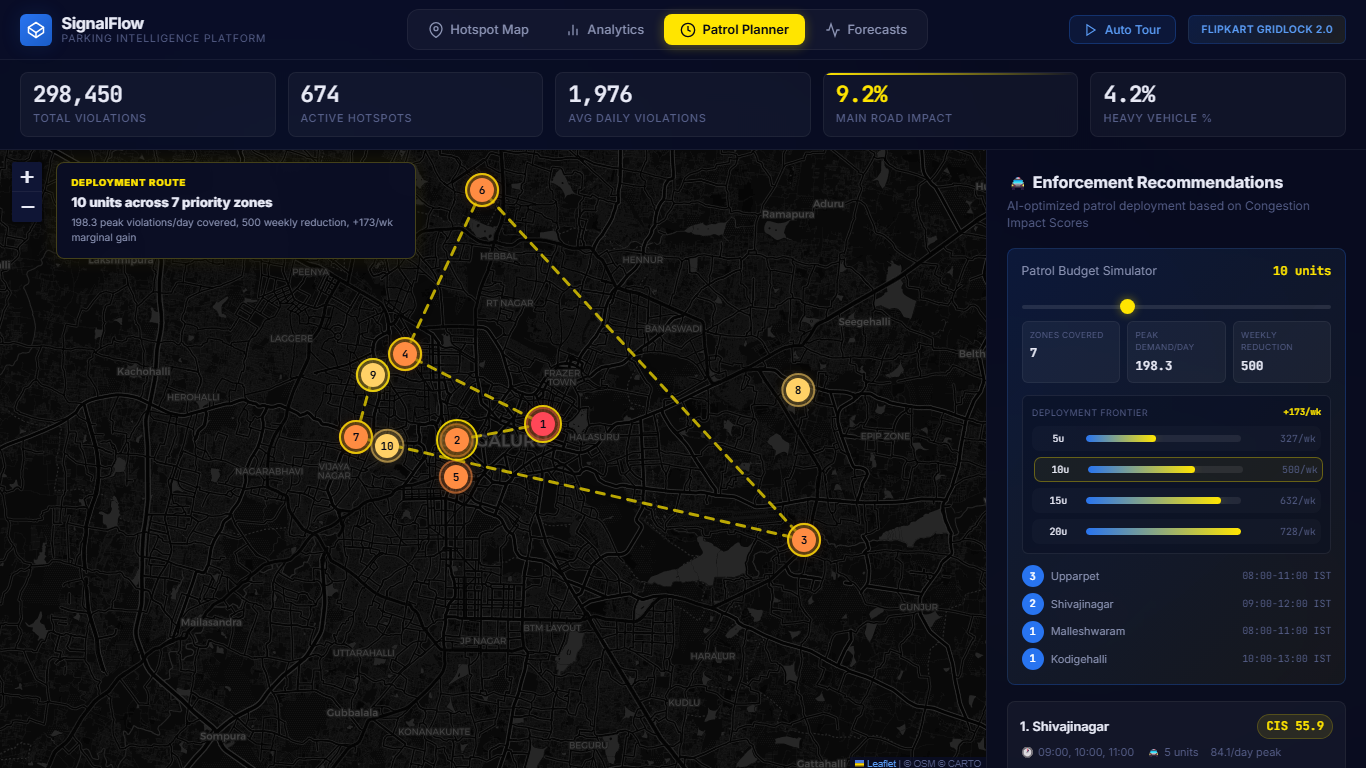
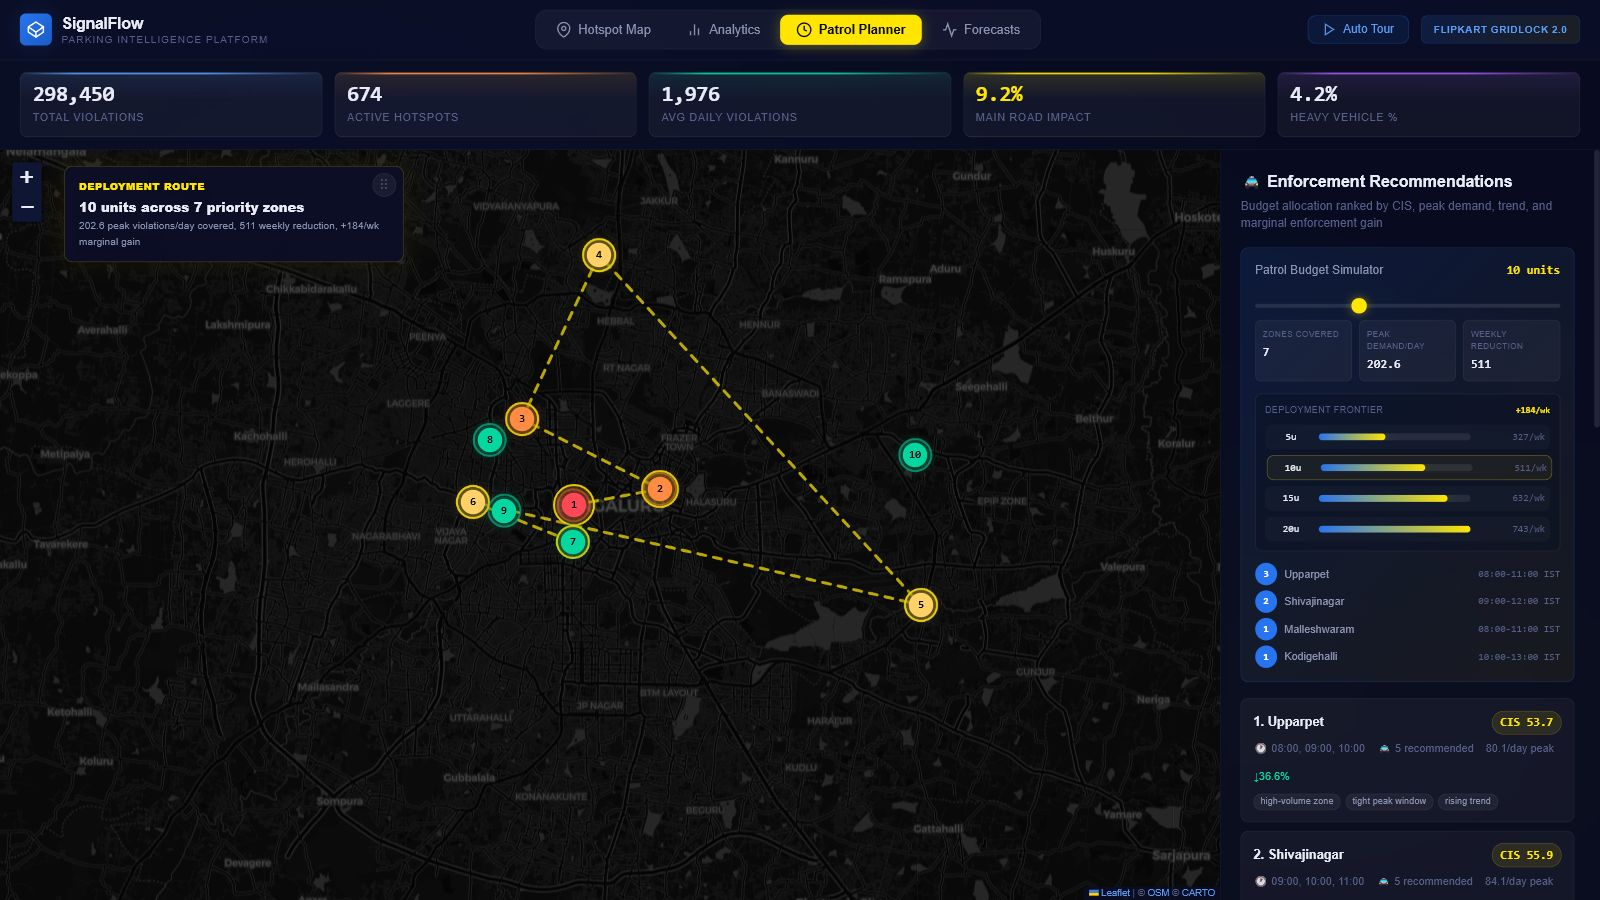
fix: align patrol priority and zone interactions

diff --git a/dashboard/app.js b/dashboard/app.js
@@ -14,6 +14,7 @@ let clusterMarkers = [];
 let patrolMarkers = [];
 let patrolRouteLayer = null;
 let patrolStationLookup = new Map();
+let patrolZoneLookup = new Map();
 let hourlyAnimData = {};
 let isPlaying = false;
 let playInterval = null;
@@ -1524,7 +1525,11 @@ function renderAnalytics(temporal) {
 function initPatrolView(enforcement, opsBrief) {
     if (!enforcement || enforcement.length === 0) return;
     const playbookMap = new Map((opsBrief?.station_playbooks || []).map(p => [p.station, p]));
-    patrolStationLookup = new Map(enforcement.map(rec => [rec.station, rec]));
+    const plannerRecommendations = enforcement
+        .map(rec => ({ ...rec, ...(playbookMap.get(rec.station) || {}) }))
+        .sort((a, b) => Number(a.rank || Infinity) - Number(b.rank || Infinity));
+    patrolStationLookup = new Map(plannerRecommendations.map(rec => [rec.station, rec]));
+    patrolZoneLookup = new Map();
 
     // Init patrol map
     patrolMap = L.map('patrolMap', {
@@ -1543,8 +1548,9 @@ function initPatrolView(enforcement, opsBrief) {
     let totalViolations = 0;
     let totalReduction = 0;
 
-    enforcement.forEach((rec, i) => {
-        const color = rec.cis > 55 ? COLORS.critical : rec.cis > 45 ? COLORS.high : rec.cis > 30 ? COLORS.medium : COLORS.low;
+    plannerRecommendations.forEach((rec, i) => {
+        const rank = Number(rec.rank) || i + 1;
+        const color = rank === 1 ? COLORS.critical : rank <= 3 ? COLORS.high : rank <= 6 ? COLORS.medium : COLORS.low;
 
         const circle = L.circle([rec.lat, rec.lon], {
             radius: 600,
@@ -1553,6 +1559,8 @@ function initPatrolView(enforcement, opsBrief) {
             color: color,
             weight: 2,
             opacity: 0.6,
+            className: 'patrol-zone-hit-area',
+            bubblingMouseEvents: false,
         }).addTo(patrolMap);
 
         const marker = L.marker([rec.lat, rec.lon], {
@@ -1563,7 +1571,7 @@ function initPatrolView(enforcement, opsBrief) {
                     border-radius:50%; display:flex; align-items:center; justify-content:center;
                     font-weight:700; font-size:11px; font-family:'JetBrains Mono',monospace;
                     box-shadow: 0 0 12px ${color}80;
-                ">${i + 1}</div>`,
+                ">${rank}</div>`,
                 iconSize: [24, 24],
                 iconAnchor: [12, 12],
             }),
@@ -1575,11 +1583,17 @@ function initPatrolView(enforcement, opsBrief) {
             <div class="popup-row"><span class="popup-label">Violations</span><span class="popup-value">${rec.total_violations.toLocaleString()}</span></div>
             <div class="popup-row"><span class="popup-label">Peak Hours</span><span class="popup-value">${rec.peak_hours_str}</span></div>
             <div class="popup-row"><span class="popup-label">Peak Demand</span><span class="popup-value">${formatNumber(rec.peak_window_daily_avg, 1)}/day</span></div>
-            <div class="popup-row"><span class="popup-label">Patrol Units</span><span class="popup-value">${rec.recommended_units}</span></div>
+            <div class="popup-row"><span class="popup-label">Recommended Units</span><span class="popup-value">${rec.recommended_units}</span></div>
             <div class="popup-row"><span class="popup-label">Est. Reduction</span><span class="popup-value" style="color:#06d6a0">${rec.expected_reduction_pct}%</span></div>
         `);
 
+        const baseTooltip = `${rank}. ${rec.station}: deployment priority`;
+        const tooltipOptions = { direction: 'top', sticky: true, className: 'patrol-zone-tooltip' };
+        circle.bindTooltip(baseTooltip, tooltipOptions);
+        marker.bindTooltip(baseTooltip, tooltipOptions);
+
         patrolMarkers.push(marker);
+        patrolZoneLookup.set(rec.station, { circle, marker, rank, rec });
         totalViolations += rec.total_violations;
         totalReduction += rec.expected_reduction_pct;
     });
@@ -1587,20 +1601,22 @@ function initPatrolView(enforcement, opsBrief) {
     // Render patrol list
     const list = document.getElementById('patrolList');
     list.innerHTML = '';
-    enforcement.forEach((rec, i) => {
+    plannerRecommendations.forEach((rec, i) => {
         const playbook = playbookMap.get(rec.station);
-        const tags = playbook?.reason_tags || [];
+        const tags = rec.reason_tags || playbook?.reason_tags || [];
+        const rank = Number(rec.rank) || i + 1;
+        const peakHours = rec.peak_hours_str || (rec.peak_hours || []).map(hour => `${String(hour).padStart(2, '0')}:00`).join(', ');
         const tagHtml = tags.map(tag => `<span class="patrol-tag">${tag}</span>`).join('');
         const item = document.createElement('div');
         item.className = 'patrol-item';
         item.innerHTML = `
             <div class="patrol-item-header">
-                <span class="patrol-item-name">${i+1}. ${rec.station}</span>
+                <span class="patrol-item-name">${rank}. ${rec.station}</span>
                 <span class="patrol-item-cis">CIS ${rec.cis}</span>
             </div>
             <div class="patrol-item-details">
-                <span class="patrol-item-detail">🕐 ${rec.peak_hours_str}</span>
-                <span class="patrol-item-detail">🚔 ${rec.recommended_units} units</span>
+                <span class="patrol-item-detail">🕐 ${peakHours}</span>
+                <span class="patrol-item-detail">🚔 ${rec.recommended_units} recommended</span>
                 <span class="patrol-item-detail">${formatNumber(rec.peak_window_daily_avg, 1)}/day peak</span>
                 <span class="patrol-item-detail" style="color:${COLORS.low}">↓${rec.expected_reduction_pct}%</span>
             </div>
@@ -1613,9 +1629,9 @@ function initPatrolView(enforcement, opsBrief) {
     });
 
     // Summary
-    document.getElementById('totalZones').textContent = enforcement.length;
+    document.getElementById('totalZones').textContent = plannerRecommendations.length;
     document.getElementById('estCoverage').textContent = totalViolations.toLocaleString() + ' violations';
-    document.getElementById('projReduction').textContent = (totalReduction / enforcement.length).toFixed(0) + '% avg';
+    document.getElementById('projReduction').textContent = (totalReduction / plannerRecommendations.length).toFixed(0) + '% avg';
 
     initBudgetSimulator(opsBrief);
 }
@@ -1710,6 +1726,12 @@ function renderPatrolRoute(scenario) {
         .filter(item => item.rec);
     const coords = stops.map(item => [item.rec.lat, item.rec.lon]);
 
+    patrolZoneLookup.forEach(({ circle, marker, rank, rec }, station) => {
+        const tooltipText = `${rank}. ${station}: not funded in ${scenario.budget_units}-unit plan / ${rec.recommended_units} recommended`;
+        circle.setTooltipContent(tooltipText);
+        marker.setTooltipContent(tooltipText);
+    });
+
     if (coords.length > 1) {
         L.polyline(coords, {
             color: COLORS.yellow,
@@ -1722,6 +1744,14 @@ function renderPatrolRoute(scenario) {
 
     stops.forEach((item, index) => {
         const { dep, rec } = item;
+        const rank = Number(rec.rank) || index + 1;
+        const tooltipText = `${rank}. ${dep.station}: ${dep.units} budgeted / ${dep.recommended_units} recommended`;
+        const zoneLayers = patrolZoneLookup.get(dep.station);
+        if (zoneLayers) {
+            zoneLayers.circle.setTooltipContent(tooltipText);
+            zoneLayers.marker.setTooltipContent(tooltipText);
+        }
+
         L.circleMarker([rec.lat, rec.lon], {
             radius: 14 + Math.min(8, dep.units * 2),
             fillColor: COLORS.yellow,
@@ -1729,10 +1759,7 @@ function renderPatrolRoute(scenario) {
             color: COLORS.yellow,
             weight: 2,
             opacity: 0.9,
-        }).addTo(patrolRouteLayer).bindTooltip(
-            `${index + 1}. ${dep.station}: ${dep.units} unit${dep.units > 1 ? 's' : ''}`,
-            { direction: 'top', sticky: true }
-        );
+        }).addTo(patrolRouteLayer);
     });
 
     const routeTitle = document.getElementById('routeTitle');

diff --git a/dashboard/style.css b/dashboard/style.css
@@ -956,6 +956,26 @@ body::before {
     filter: drop-shadow(0 0 2px rgba(0, 0, 0, 0.55));
 }
 
+#patrolMap .patrol-zone-hit-area {
+    pointer-events: visibleFill;
+}
+
+#patrolMap .patrol-zone-tooltip {
+    background: rgba(10, 14, 39, 0.94);
+    color: var(--text-primary);
+    border: 1px solid rgba(255, 229, 0, 0.45);
+    border-radius: var(--radius-sm);
+    box-shadow: var(--shadow-card);
+    font-family: 'Inter', sans-serif;
+    font-size: 0.76rem;
+    font-weight: 600;
+    padding: 0.42rem 0.58rem;
+}
+
+#patrolMap .leaflet-tooltip-top.patrol-zone-tooltip::before {
+    border-top-color: rgba(255, 229, 0, 0.45);
+}
+
 .map-lens-panel {
     position: absolute;
     top: 166px;

diff --git a/dashboard/index.html b/dashboard/index.html
@@ -18,7 +18,7 @@
     <!-- Leaflet Heatmap -->
     <script src="vendor/leaflet-heat/leaflet-heat.js"></script>
 
-    <link rel="stylesheet" href="style.css?v=16">
+    <link rel="stylesheet" href="style.css?v=17">
 </head>
 <body>
     <!-- Header -->
@@ -239,7 +239,7 @@
                 </div>
                 <div class="patrol-sidebar">
                     <h3>🚔 Enforcement Recommendations</h3>
-                    <p class="patrol-subtitle">AI-optimized patrol deployment based on Congestion Impact Scores</p>
+                    <p class="patrol-subtitle">Budget allocation ranked by CIS, peak demand, trend, and marginal enforcement gain</p>
 
                     <div class="scenario-panel" id="scenarioPanel">
                         <div class="scenario-header">
@@ -341,6 +341,6 @@
         </div>
     </div>
 
-    <script src="app.js?v=19"></script>
+    <script src="app.js?v=20"></script>
 </body>
 </html>

diff --git a/operations_brief.py b/operations_brief.py
@@ -94,8 +94,7 @@ def _allocate_budget(playbooks, budget):
 
         def marginal_value(p):
             used = assignments[p['station']]
-            trend_boost = 1 + max(p['trend_pct'], 0) / 250
-            return (p['priority_score'] * trend_boost) / ((used + 1) ** 0.7)
+            return p['priority_score'] / ((used + 1) ** 0.7)
 
         best = max(candidates, key=marginal_value)
         assignments[best['station']] += 1

diff --git a/JUDGING_BRIEF.md b/JUDGING_BRIEF.md
@@ -46,7 +46,7 @@ For local zip judging, start from `dashboard/` with `python -m http.server 8000`
    Show temporal peaks, station rankings, vehicle mix, and violation types. Emphasize that the system is learning enforcement timing patterns from historical data.
 
 5. **Patrol Planner**  
-   Use the budget slider and the deployment frontier. Show that the model changes deployment, redraws the route, and exposes marginal gain as resources increase instead of producing a static top-10 list.
+   Use the budget slider and the deployment frontier. Show that the model changes deployment, redraws the route, and exposes marginal gain as resources increase instead of producing a static top-10 list. Marker number and color represent composite deployment priority, not CIS rank alone; the recommendation balances CIS with peak demand, trend, and diminishing returns from each additional unit.
 
 6. **Forecasts**  
    Explain the 7-day forecast, average citywide error, and station-day validation. Keep the claim precise: this is a short-horizon planning signal, not a city traffic simulator.